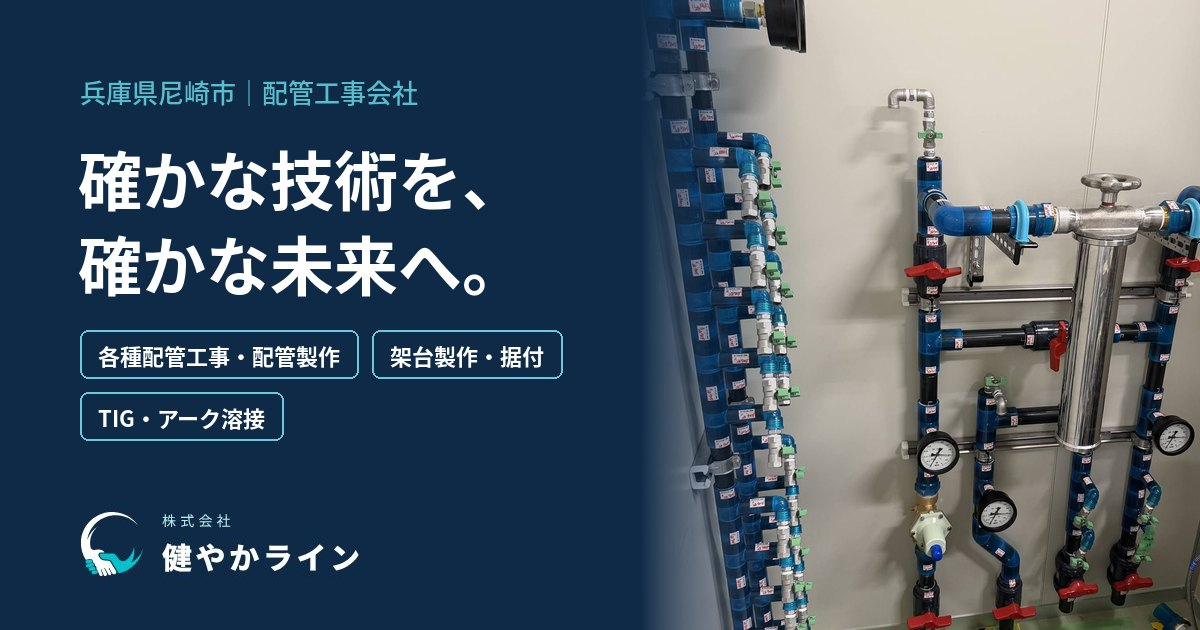
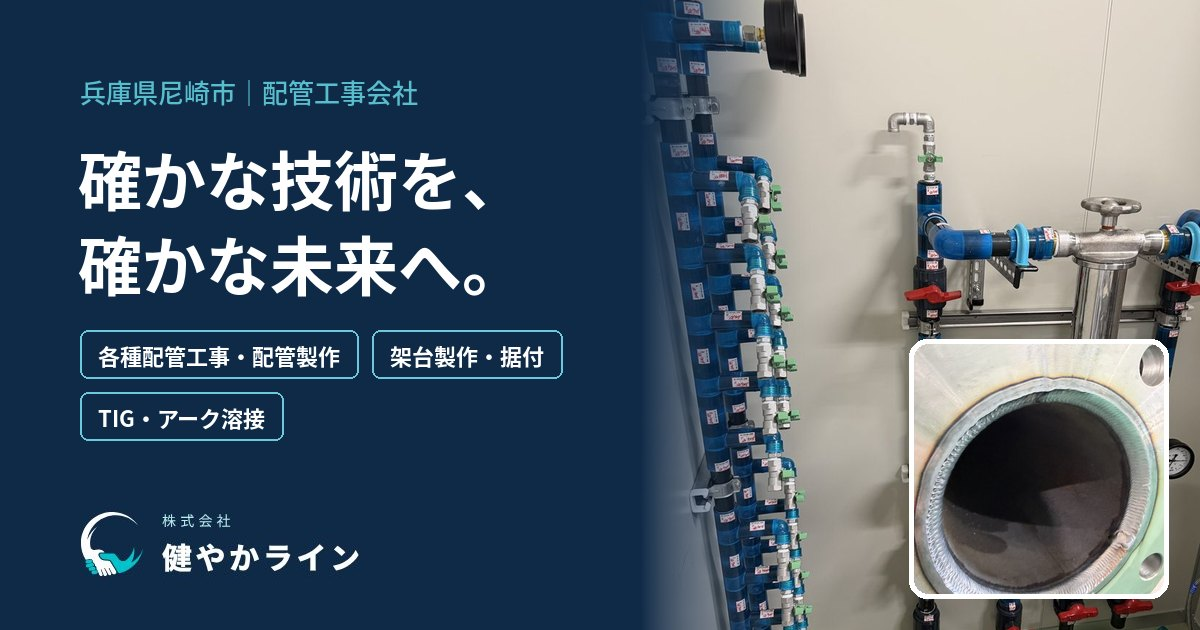
共有画像：注水用配管とフランジ内側の溶接の写真に（島谷さん指定）
Claude-Session: https://claude.ai/code/session_01BJReB7SUrJyJ84gdcBjX7W

Changed region(s): [[0.5242, 0.0, 1.0, 1.0]]

diff --git a/src/lib/seo.ts b/src/lib/seo.ts
@@ -3,7 +3,7 @@ import { site } from "@/config/site";
 
 type OgImage = { url: string; width?: number; height?: number; alt: string };
 
-const defaultImage: OgImage = { url: "/og.jpg", width: 1200, height: 630, alt: `${site.name}｜兵庫県尼崎市の配管工事会社（現場の配管写真）` };
+const defaultImage: OgImage = { url: "/og.jpg", width: 1200, height: 630, alt: `${site.name}｜兵庫県尼崎市の配管工事会社（注水用配管とフランジ内側の溶接の現場写真）` };
 
 /**
  * 各ページのタイトル・説明文・SNSで共有したときの表示（OGP）をまとめて作る。

diff --git a/src/app/layout.tsx b/src/app/layout.tsx
@@ -27,7 +27,7 @@ export const metadata: Metadata = {
     siteName: site.name,
     title: `尼崎市の配管工事・配管製作・溶接｜${site.name}`,
     description: site.description,
-    images: [{ url: "/og.jpg", width: 1200, height: 630, alt: `${site.name}｜兵庫県尼崎市の配管工事会社（現場の配管写真）` }],
+    images: [{ url: "/og.jpg", width: 1200, height: 630, alt: `${site.name}｜兵庫県尼崎市の配管工事会社（注水用配管とフランジ内側の溶接の現場写真）` }],
   },
   twitter: {
     card: "summary_large_image",
